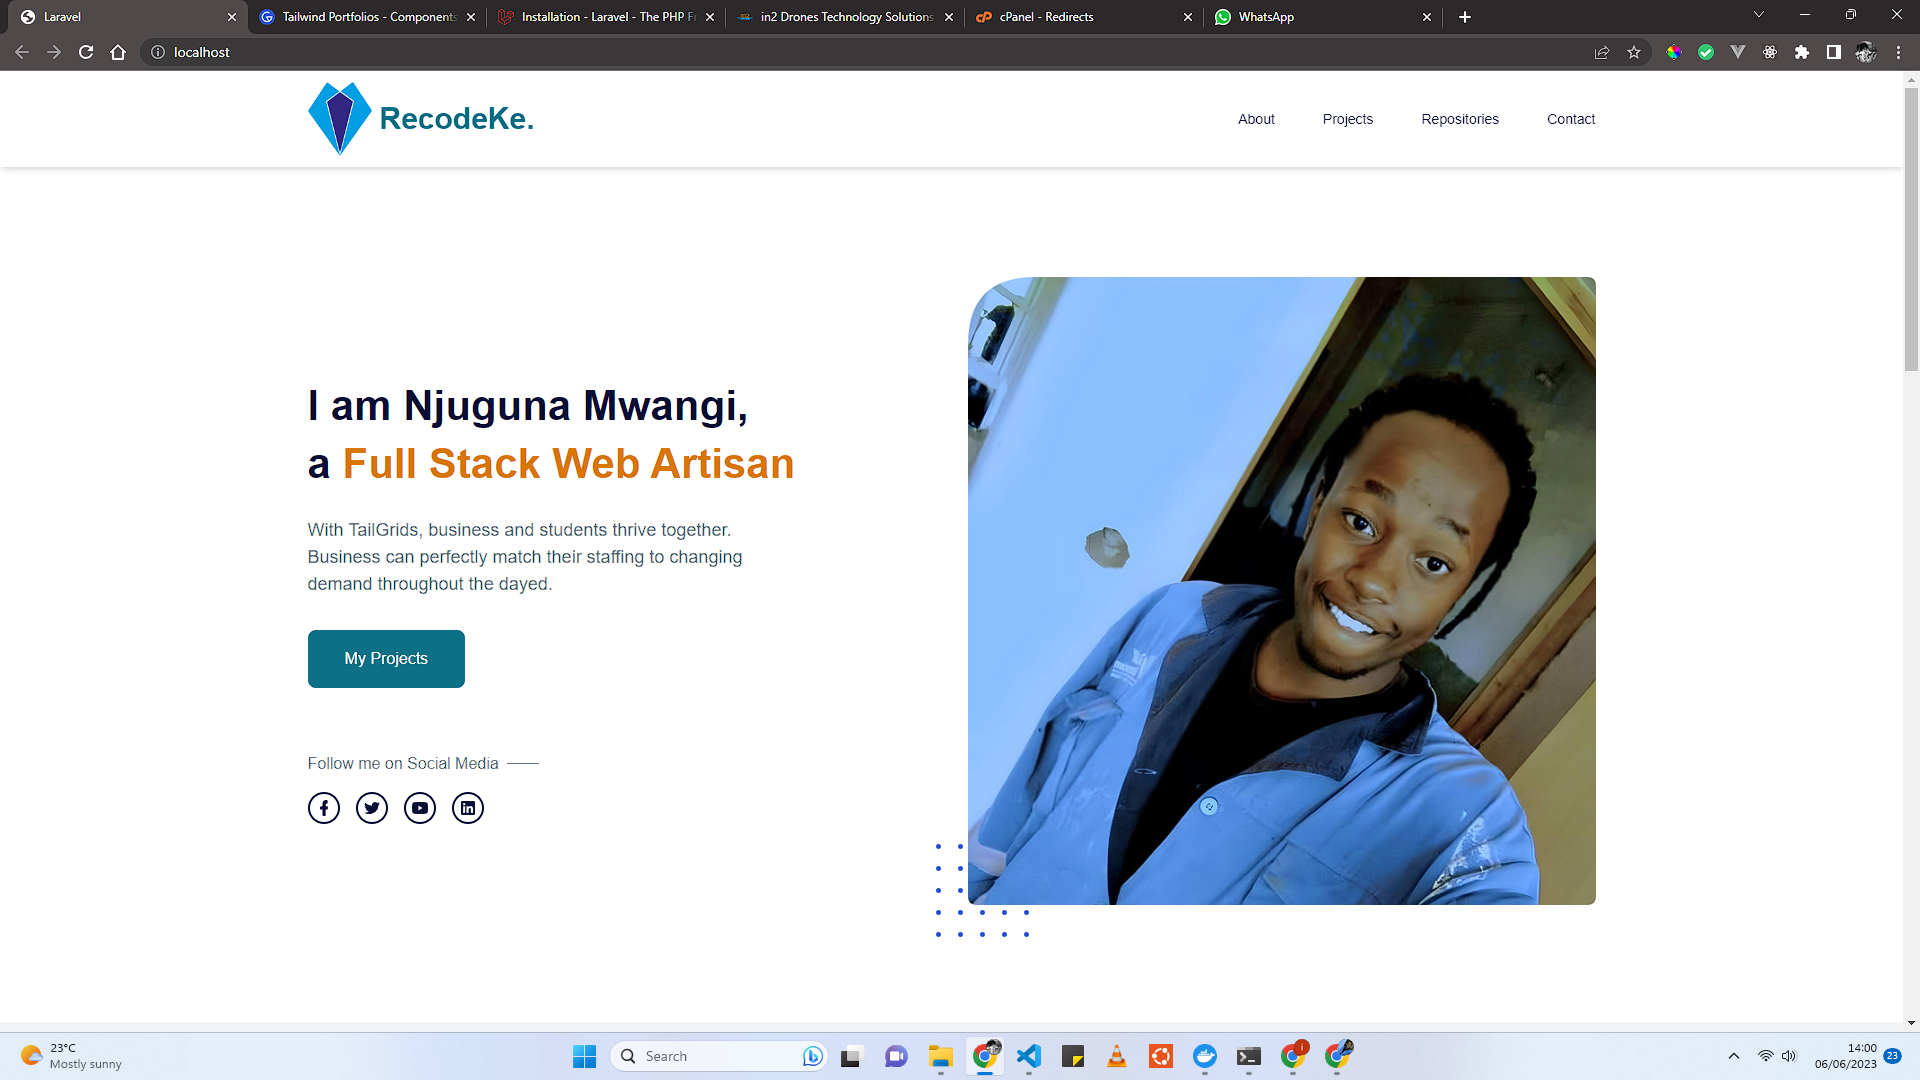
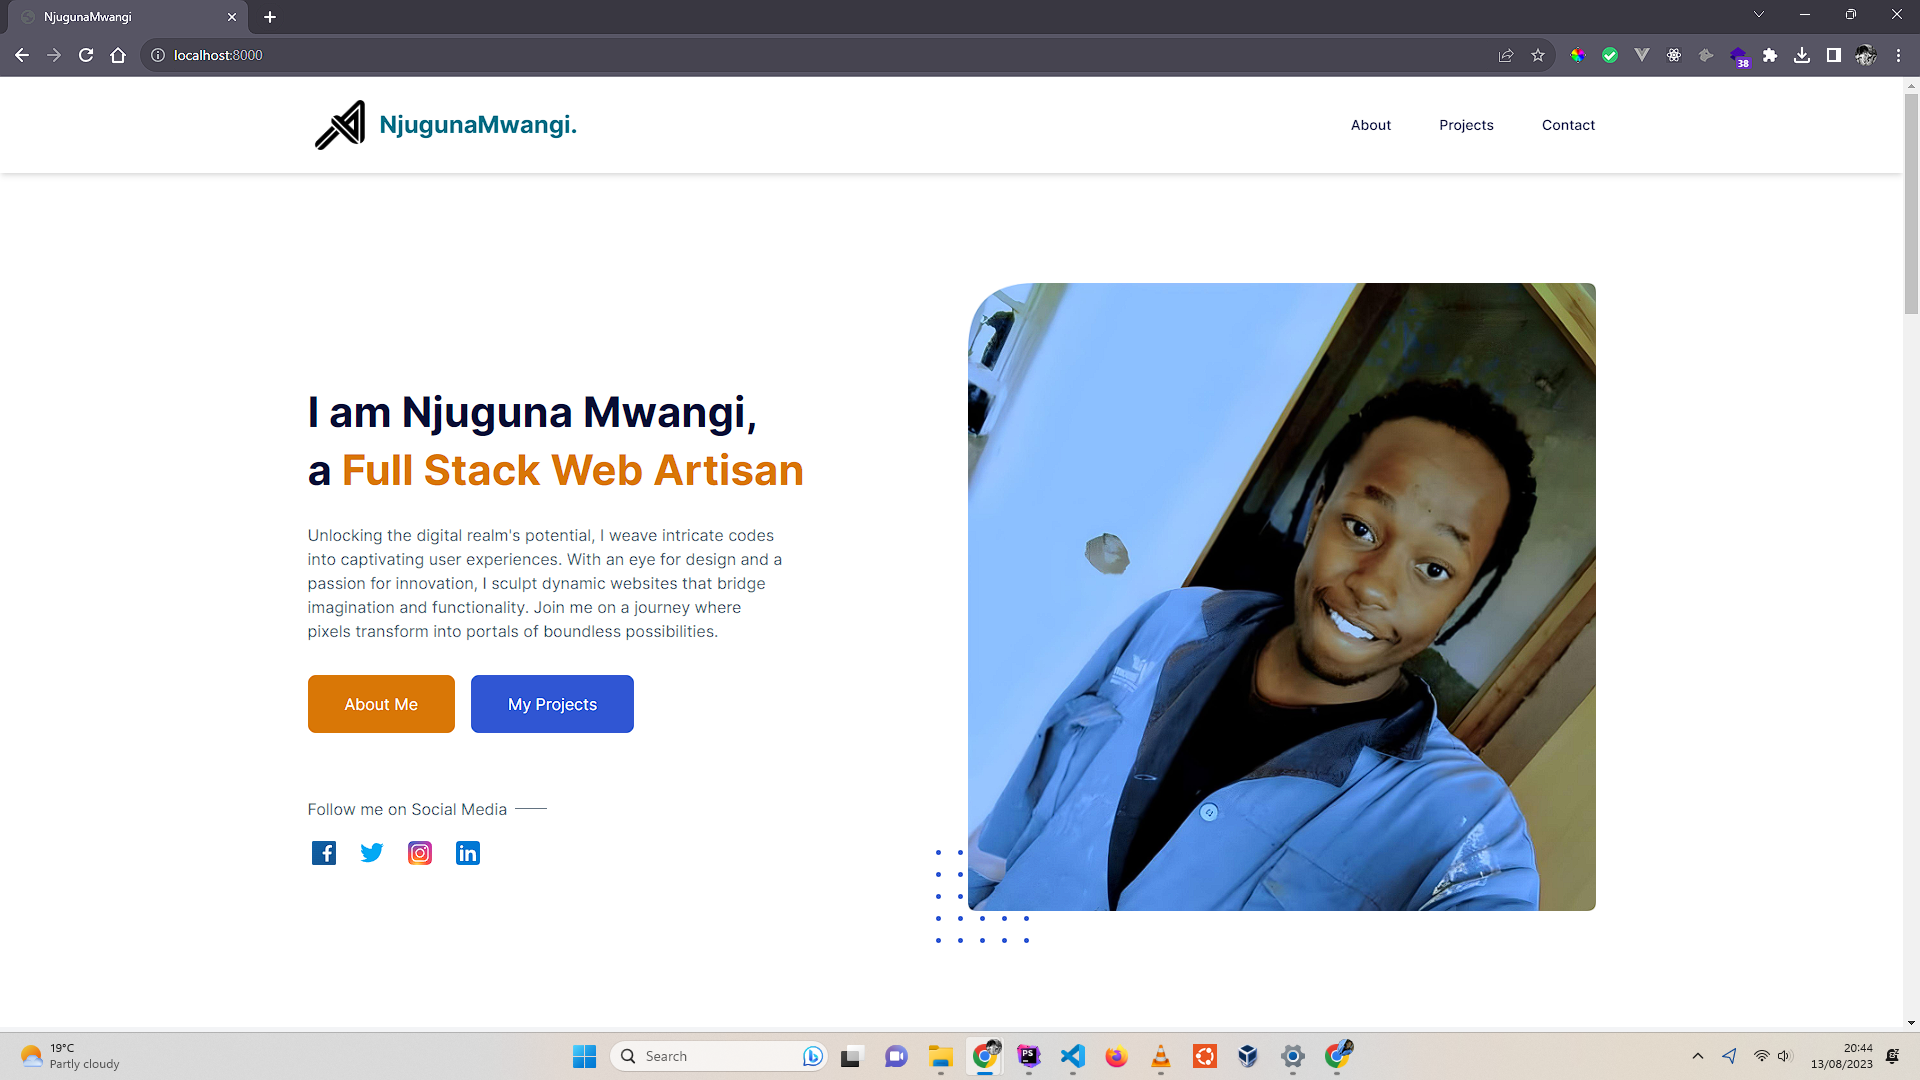
Final changes

diff --git a/public/css/app.css b/public/css/app.css
@@ -425,6 +425,10 @@ input[type="radio"]:checked ~ .box .circle{
   color: #3056D3;
 }
 
+.download-radio:checked ~ label .icon{
+  opacity: 1;
+}
+
 .autoSaverSwitch input:checked ~ .label .on{
   display: block;
 }
@@ -451,6 +455,27 @@ input[type="radio"]:checked ~ .box .circle{
 .themeSwitcherThree input:checked ~ div .dark{
   background: #3056D3;
   color: #fff;
+}
+
+.checkbox-list:checked ~ label .icon{
+  opacity: 1;
+}
+
+.box-select-1:checked ~ label .box .icon{
+  opacity: 1;
+}
+
+.select-list:checked ~ label .icon{
+  background: #3056D3;
+}
+
+.tableCheckbox:checked ~ label .icon{
+  opacity: 1;
+}
+
+.tableCheckbox-2:checked ~ label .icon{
+  color: #fff;
+  opacity: 1;
 }
 
 *, ::before, ::after{
@@ -901,6 +926,18 @@ input[type="radio"]:checked ~ .box .circle{
   --tw-border-opacity: 1;
   border-color: rgb(185 28 28 / var(--tw-border-opacity));
 }
+.border-amber-700{
+  --tw-border-opacity: 1;
+  border-color: rgb(180 83 9 / var(--tw-border-opacity));
+}
+.border-amber-400{
+  --tw-border-opacity: 1;
+  border-color: rgb(251 191 36 / var(--tw-border-opacity));
+}
+.border-amber-600{
+  --tw-border-opacity: 1;
+  border-color: rgb(217 119 6 / var(--tw-border-opacity));
+}
 .bg-body-color{
   --tw-bg-opacity: 1;
   background-color: rgb(99 115 129 / var(--tw-bg-opacity));
@@ -936,6 +973,18 @@ input[type="radio"]:checked ~ .box .circle{
 .bg-white{
   --tw-bg-opacity: 1;
   background-color: rgb(255 255 255 / var(--tw-bg-opacity));
+}
+.bg-amber-900{
+  --tw-bg-opacity: 1;
+  background-color: rgb(120 53 15 / var(--tw-bg-opacity));
+}
+.bg-amber-400{
+  --tw-bg-opacity: 1;
+  background-color: rgb(251 191 36 / var(--tw-bg-opacity));
+}
+.bg-amber-600{
+  --tw-bg-opacity: 1;
+  background-color: rgb(217 119 6 / var(--tw-bg-opacity));
 }
 .bg-opacity-5{
   --tw-bg-opacity: 0.05;

diff --git a/resources/views/components/home/about.blade.php b/resources/views/components/home/about.blade.php
@@ -7,14 +7,14 @@
                     <div class="w-full px-3 sm:px-4 xl:w-1/2">
                         <div class="py-3 sm:py-4">
                             <img
-                                src="https://cdn.tailgrids.com/2.0/image/marketing/images/about/about-01/image-1.jpg"
+                                src="{{ asset('img/about1.jpg') }}"
                                 alt=""
                                 class="w-full rounded-2xl"
                             />
                         </div>
                         <div class="py-3 sm:py-4">
                             <img
-                                src="https://cdn.tailgrids.com/2.0/image/marketing/images/about/about-01/image-2.jpg"
+                                src="{{ asset('img/about2.jpg') }}"
                                 alt=""
                                 class="w-full rounded-2xl"
                             />
@@ -39,14 +39,10 @@
                         About Me
                     </h2>
                     <p class="text-body-color mb-8 text-base">
-                        It is a long established fact that a reader will be distracted by
-                        the readable content of a page when looking at its layout. The point
-                        of using Lorem Ipsum is that it has a more-or-less.
+                        In the ever-expanding realm of the internet, where innovation and creativity interlace with technology, a profound opportunity emerges for those who possess the power to craft virtual landscapes that captivate and inspire. Picture a digital artisan, seamlessly blending aesthetics and functionality, breathing life into virtual spaces that engage, inform, and delight. This is the world of web development, a realm where each keystroke translates into an immersive experience, and where a master of the craft wields tools like WordPress, Laravel, and Livewire to mold the digital reality of tomorrow.
                     </p>
                     <p class="text-body-color mb-12 text-base">
-                        A domain name is one of the first steps to establishing your brand.
-                        Secure a consistent brand image with a domain name that matches your
-                        business.
+                        The symphony of WordPress, Laravel, and Livewire represents a symposium of technologies that dance in harmony to compose the web's future. At its core, web development is more than just creating visually appealing websites; it's an intricate ballet of design principles, user experience, and technological prowess. Imagine a user landing on a website, effortlessly gliding through a smooth and intuitive interface. This is the magic of a web developer skilled in the art of WordPress, Laravel, and Livewire. The art and craft with which I've perfected over the years and my work speaks for me.
                     </p>
                     <x-button-link href="https://github.com/njugunamwangi" variant="primary" target="_blank">
                         Github

diff --git a/resources/views/components/home/hero.blade.php b/resources/views/components/home/hero.blade.php
@@ -1,5 +1,5 @@
 <!-- Hero Section start -->
-<div class="relative bg-white pt-[100px] pb-[110px] lg:pt-[110px] dark:bg-slate-800">
+<div id="home" class="relative bg-white pt-[100px] pb-[110px] lg:pt-[110px] dark:bg-slate-800">
     <div class="container mx-auto">
         <div class="-mx-4 flex flex-wrap">
             <div class="w-full px-4 lg:w-5/12 pt-[100px]">
@@ -9,11 +9,14 @@
                         a <span class="rounded-md text-amber-600">Full Stack Web Artisan</span>
                     </h1>
                     <p class="text-body-color mb-8 max-w-[480px] text-base">
-                        With TailGrids, business and students thrive together. Business can
-                        perfectly match their staffing to changing demand throughout the
-                        dayed.
+                        Unlocking the digital realm's potential, I weave intricate codes into captivating user experiences. With an eye for design and a passion for innovation, I sculpt dynamic websites that bridge imagination and functionality. Join me on a journey where pixels transform into portals of boundless possibilities.
                     </p>
                     <ul class="flex flex-wrap items-center">
+                        <li>
+                            <x-button-link href="#about" variant="amber" class="rounded-lg mr-4">
+                                About Me
+                            </x-button-link>
+                        </li>
                         <li>
                             <x-button-link href="#projects" variant="primary" class="rounded-lg">
                                 My Projects

diff --git a/resources/views/components/social-icons.blade.php b/resources/views/components/social-icons.blade.php
@@ -1,6 +1,6 @@
 <div {{ $attributes->class(['flex items-center']) }}>
     <a
-        href="javascript:void(0)"
+        href="https://www.facebook.com/njugunadesmond"
         target="_blank"
         class="text-dark mr-3 flex h-8 w-8 items-center justify-center rounded-full hover:text-white sm:mr-4 lg:mr-3 xl:mr-4
                hover:border-primary hover:text-white hover:dark:border-primary
@@ -23,7 +23,7 @@
         </svg>
     </a>
     <a
-        href="javascript:void(0)"
+        href="https://twitter.com/__hostDes"
         target="_blank"
         class="text-dark mr-3 flex h-8 w-8 items-center justify-center rounded-full hover:text-white sm:mr-4 lg:mr-3 xl:mr-4
                  hover:border-primary hover:text-white hover:dark:border-primary
@@ -41,7 +41,7 @@
         </svg>
     </a>
     <a
-        href="javascript:void(0)"
+        href="https://www.instagram.com/_.ndachi._/"
         target="_blank"
         class="text-dark mr-3 flex h-8 w-8 items-center justify-center rounded-full hover:text-white sm:mr-4 lg:mr-3 xl:mr-4
                 hover:border-primary hover:text-white hover:dark:border-primary
@@ -76,7 +76,7 @@
         </svg>
     </a>
     <a
-        href="javascript:void(0)"
+        href="https://www.linkedin.com/in/njuguna-mwangi-161aa7257/"
         target="_blank"
         class="text-dark mr-3 flex h-8 w-8 items-center justify-center rounded-full hover:text-white sm:mr-4 lg:mr-3 xl:mr-4
                 hover:border-primary hover:text-white hover:dark:border-primary

diff --git a/resources/views/layout/navbar.blade.php b/resources/views/layout/navbar.blade.php
@@ -3,11 +3,11 @@
     <div class="container mx-auto">
         <div class="relative -mx-4 flex items-center justify-between relative">
             <div class="w-60 max-w-full px-4">
-                <a href="/" class="w-full flex items-center py-2">
+                <a href="#home" class="w-full flex items-center py-2">
                     <!-- for dark mode -->
-                    <img src="{{ url('img/smartlearn.png') }}" alt="logo" class="w-[48px] lg:w-[64px] hidden dark:inline-block" />
+                    <img src="{{ url('img/logo.png') }}" alt="logo" class="w-[48px] lg:w-[64px] hidden dark:inline-block" />
                     <!-- for light mode -->
-                    <img src="{{ url('img/smartlearn.png') }}" alt="logo" class="w-[48px] lg:w-[64px] inline-block dark:hidden" />
+                    <img src="{{ url('img/logo.png') }}" alt="logo" class="w-[48px] lg:w-[64px] inline-block dark:hidden" />
                     <span class="text-xl px-2 xl:text-2xl font-bold text-[#0c7187] dark:text-white" >NjugunaMwangi.</span>
                 </a>
             </div>

diff --git a/resources/views/components/home/contact.blade.php b/resources/views/components/home/contact.blade.php
@@ -13,9 +13,7 @@
                         GET IN TOUCH
                     </h2>
                     <p class="text-body-color mb-9 text-base leading-relaxed">
-                        Lorem ipsum dolor sit amet, consectetur adipiscing elit, sed do eius
-                        tempor incididunt ut labore et dolore magna aliqua. Ut enim adiqua
-                        minim veniam quis nostrud exercitation ullamco
+                        Let's chat. Tell me about your project
                     </p>
                     <div class="mb-8 flex w-full max-w-[370px]">
                         <div

diff --git a/resources/views/components/button-link.blade.php b/resources/views/components/button-link.blade.php
@@ -8,6 +8,7 @@
             'hover:bg-red-700 hover:border-red-700 hover:text-white' => $variant === 'outline-red',
             'bg-red-700 border-red-700 text-white hover:bg-red-800' => $variant === 'red',
             'bg-gray-900 border-gray-700 text-white hover:bg-gray-800' => $variant === 'dark',
+            'bg-amber-600 border-amber-600 text-white hover:bg-gray-800' => $variant === 'amber',
             'bg-primary border-primary text-white hover:bg-opacity-80' => $variant === 'primary'
         ])
     }} >

diff --git a/resources/views/layout/app.blade.php b/resources/views/layout/app.blade.php
@@ -6,7 +6,9 @@
 
         <meta name="csrf-token" content="{{ csrf_token() }}" />
 
-        <title>Laravel</title>
+        <link rel="icon" type="image/x-icon" href="{{ asset('/img/favicon.ico') }}">
+
+        <title>NjugunaMwangi</title>
 
         <link href="{{ asset('css/app.css') }}" rel="stylesheet"/>
     </head>
